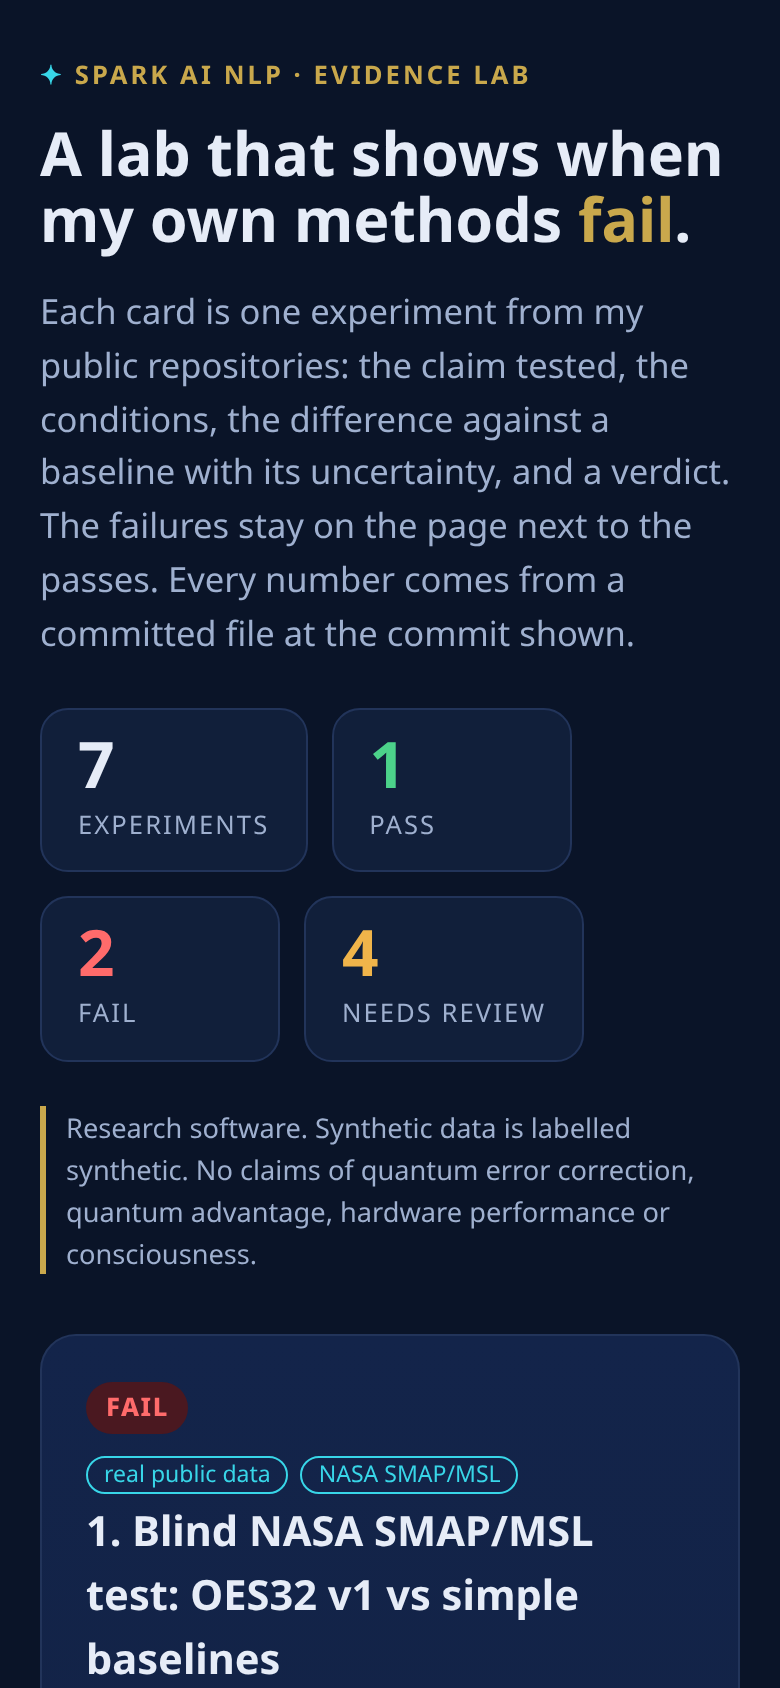
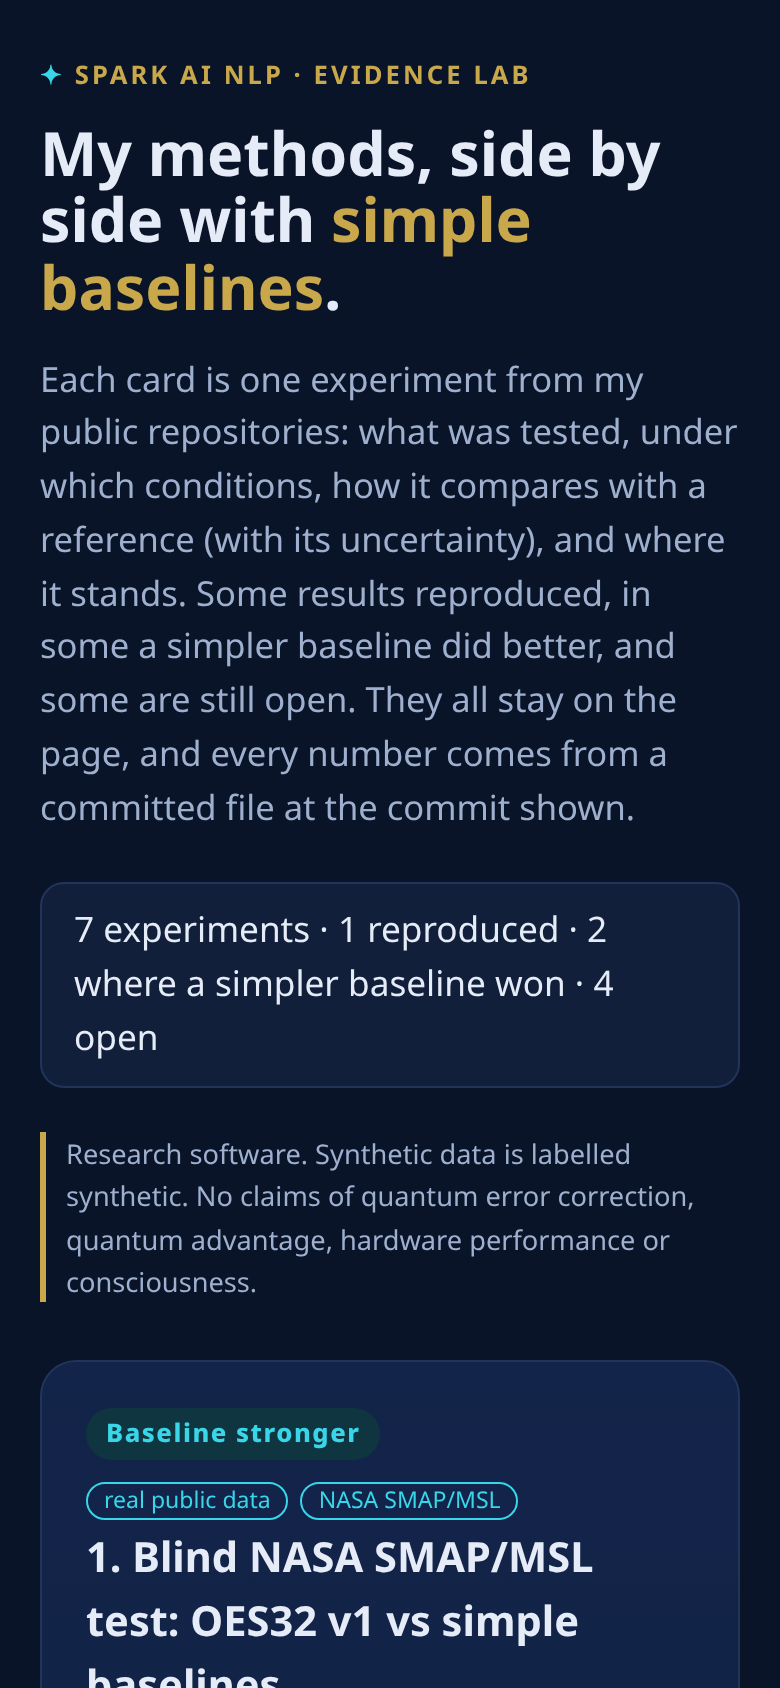
Calmer framing: Reproduced / Baseline stronger / Open question / Exploratory labels, What I learned and Next step lines; results unchanged

diff --git a/site/app.js b/site/app.js
@@ -1,7 +1,7 @@
 "use strict";
 const L = window.LAB, GH = "https://github.com/sparkainlp-x/", $ = (s, r = document) => r.querySelector(s);
-const C = { gold:"#c9a84c", cyan:"#38d6e8", red:"#ff6b6b", green:"#4cd28a", amber:"#f0b44a", mut:"#9fb0cf", line:"#22345a", txt:"#e6ecf7" };
-const VL = { PASS:"PASS", FAIL:"FAIL", REVIEW:"NEEDS REVIEW" };
+const C = { gold:"#c9a84c", cyan:"#38d6e8", red:"#b7c3da", green:"#4cd28a", amber:"#f0b44a", mut:"#9fb0cf", line:"#22345a", txt:"#e6ecf7" };
+const VL = { REPRODUCED:"Reproduced", BASELINE:"Baseline stronger", OPEN:"Open question", EXPLORATORY:"Exploratory" };
 const esc = s => String(s).replace(/[&<>]/g, c => ({ "&":"&amp;", "<":"&lt;", ">":"&gt;" }[c]));
 function rng(seed) { let a = seed >>> 0; return () => { a |= 0; a = a + 0x6D2B79F5 | 0; let t = Math.imul(a ^ a >>> 15, 1 | a); t = t + Math.imul(t ^ t >>> 7, 61 | t) ^ t; return ((t ^ t >>> 14) >>> 0) / 4294967296; }; }
 function gauss(r) { let u = 0, v = 0; while (!u) u = r(); v = r(); return Math.sqrt(-2 * Math.log(u)) * Math.cos(2 * Math.PI * v); }
@@ -34,49 +34,49 @@ const legend = items => `<div class="ctl">${items.map(([c, t]) => `<span><b styl
 
 // ---------- experiments ----------
 const EXP = [
- { id:"smap", verdict:"FAIL", tags:["real public data","NASA SMAP/MSL"], title:"Blind NASA SMAP/MSL test: OES32 v1 vs simple baselines",
+ { id:"smap", learned:'On this data the plain max|x| over the window did at least as well as OES32; the extra weighting showed no measurable gain.', verdict:"BASELINE", tags:["real public data","NASA SMAP/MSL"], title:"Blind NASA SMAP/MSL test: OES32 v1 vs simple baselines",
    claim:"OES32 detects real spacecraft telemetry anomalies better than simple baselines (preregistered success criterion).",
    cond:"Hundman et al. 2018 SMAP (54 channels, 68 events) and MSL (27 channels, 36 events); protocol locked and pushed before test scoring; train-only thresholds at a 1% false-positive target; pooled event-level F1 with 95% bootstrap CIs.",
    diff:"SMAP: OES32 0.379 vs max|x| 0.475. MSL: OES32 0.435 vs max|x| 0.500 and CUSUM 0.514. Differences vs the better baselines are not significant; OES32 was significantly better only than EWMA on SMAP.",
    need:"An external timestamp for the protocol lock (it is self-timestamped ~10 minutes before the results merged) and an independent rerun.",
    repo:"oes-resilience", sha:"e3e03d5cc6b54e9d9818fd83d7a1e041f6800224", path:"reports/smap_msl_results/smap_msl_summary.csv", doi:"10.5281/zenodo.23128059",
    rerun:`git clone https://github.com/sparkainlp-x/oes-resilience && cd oes-resilience\ngit checkout e3e03d5\npip install -e .\npython scripts/fetch_smap_msl.py   # downloads public data, verifies SHA-256\npytest tests/test_smap_msl.py`, render: renderSmap },
- { id:"v2", verdict:"FAIL", tags:["real public data","locked protocol"], title:"OES-32-v2: a second attempt, also failed",
+ { id:"v2", learned:'A wider validation search did not transfer to the real test split; tuning on synthetic injections was not enough.', verdict:"BASELINE", tags:["real public data","locked protocol"], title:"OES-32-v2: a second attempt, also failed",
    claim:"A validation-selected v2 detector improves event F1 over frozen v1 by at least +0.05 on both SMAP and MSL.",
    cond:"4,223 validation-only trials on synthetic injections, frozen config, test split run exactly once (protocol 8b474b6, test lock 5477ffb, run 7b46a3b).",
    diff:"v2 − v1 event F1: −0.166 on SMAP (0.213 vs 0.379), −0.001 on MSL (0.434 vs 0.435). Required: +0.05 on each. Runtime 2.27× v1 against a 2× limit.",
    need:"Nothing to rescue here: the criterion was predeclared and missed. Kept as a documented negative result.",
    repo:"oes-resilience", sha:"79edb72c861fa487ec63e14f9d10d0a55525d513", path:"oes32-v2/reports/OES32_V2_REPORT.md", doi:"10.5281/zenodo.23071166",
    rerun:`git clone https://github.com/sparkainlp-x/oes-resilience && cd oes-resilience\ngit checkout 79edb72\ncat oes32-v2/reports/OES32_V2_REPORT.md   # protocol, trial log, frozen config, results`, render: renderV2 },
- { id:"qbench", verdict:"REVIEW", tags:["SIMULATOR ONLY","synthetic noise"], title:"qbench: does heavier transpiler optimisation help? It depends how you block.",
+ { id:"qbench", learned:'The gain is concentrated in one circuit family, so how the data is blocked decides whether it looks significant.', verdict:"OPEN", tags:["SIMULATOR ONLY","synthetic noise"], title:"qbench: does heavier transpiler optimisation help? It depends how you block.",
    claim:"Qiskit transpiler optimisation level 3 gives higher Hellinger fidelity than level 1 under a synthetic noise model.",
    cond:"Qiskit Aer simulator only; GHZ, Bernstein-Vazirani and QFT at widths 3-5; 4 seed batches; 2,000 shots; 108 runs; plan SHA-256 self-recorded before the first run; paired block bootstrap.",
    diff:"+0.0187 [+0.0053, +0.0324] with the preregistered 12 blocks. Grouping by circuit family alone: [+0.0000, +0.0538], not significant. Nearly all of the gain is from QFT (+0.0538).",
    need:"An externally timestamped plan (Zenodo/OSF), real-hardware runs with calibration snapshots, and more families so a family-level interval is meaningful.",
    repo:"oes-resilience", sha:"0e1165610e2ddb6445fec507b95d8b7a7f8b2979", branch:"qbench-evidence-layer (PR #5, unmerged)", path:"examples/qbench_sample/qbench_report.md", doi:null,
    rerun:`git clone https://github.com/sparkainlp-x/oes-resilience && cd oes-resilience\ngit checkout 0e11656   # branch qbench-evidence-layer\npip install -e '.[quantum]'\npytest -q tests -k qbench\n# outputs: examples/qbench_sample/`, render: renderQbench },
- { id:"residual", verdict:"PASS", tags:["live in your browser","synthetic stream"], title:"OES-32 residual, ported to JavaScript and replayed live",
+ { id:"residual", learned:'The residual is simple enough to port exactly; on a slow drift, max-abs reacts later than EWMA or CUSUM.', verdict:"REPRODUCED", tags:["live in your browser","synthetic stream"], title:"OES-32 residual, ported to JavaScript and replayed live",
    claim:"The in-browser JS port computes exactly the normative OES-32 residual: R = max|y−x| over 32 values, FAIL iff R > tolerance (strict).",
    cond:"Contract vectors generated by the Python reference (oes32-residual 136f258) and checked bit-exact by node:test in CI, plus invalid-input rejection.",
    diff:"45 of 45 valid vectors identical (component residuals, aggregate and status); all invalid inputs rejected. The replay below is a synthetic illustration, not a benchmark.",
    need:"The replay's EWMA/CUSUM settings are illustrative and uncalibrated; the slow-drift weakness is shown, not measured.",
    repo:"oes32-residual", sha:"136f2584c8e81d31edbe418652eed1616cd498cd", path:"residual_definition.md", doi:"10.5281/zenodo.22985520",
    rerun:`git clone https://github.com/sparkainlp-x/spark-evidence-lab && cd spark-evidence-lab\ngit clone https://github.com/sparkainlp-x/oes32-residual /tmp/oes32-residual\npython3 tools/gen_vectors.py /tmp/oes32-residual > tests/vectors.json\nnode --test tests/`, render: renderResidual },
- { id:"oes512", verdict:"REVIEW", tags:["SYNTHETIC","not hardware"], title:"OES-512: 512-channel synthetic stream, filtered and summarised",
+ { id:"oes512", learned:'The summaries react to shared structure, and the notch keeps mains hum from looking like coherence. That is behaviour, not evidence.', verdict:"EXPLORATORY", tags:["SYNTHETIC","not hardware"], title:"OES-512: 512-channel synthetic stream, filtered and summarised",
    claim:"The coherence / instability / drift summaries respond to injected structure in a synthetic 512-channel stream.",
    cond:"Synthetic 250 Hz stream generated in your browser; 50 Hz notch + 0.5-45 Hz band-pass (biquads, a JS approximation of the repo's SciPy SOS filters); metric definitions mirror main.py: coherence = mean |Pearson r| over every 16th channel, instability = std of channel variances, drift = norm of mean-profile shift from the first window.",
    diff:"No baseline comparison exists yet. The metrics are plain statistics of synthetic data, not measurements of any system.",
    need:"A predeclared detection task with ground truth and a baseline (for example max|x| per block) before any claim.",
    repo:"oes512-telemetry-engine", sha:"95d99a16c61ef700a58f668e35e61ad051e4d8cc", path:"main.py", doi:"10.5281/zenodo.23307953",
    rerun:`git clone https://github.com/sparkainlp-x/oes512-telemetry-engine && cd oes512-telemetry-engine\npip install -r requirements.txt -r requirements-dev.txt\npytest -q && python main.py`, render: renderOes512 },
- { id:"thz", verdict:"REVIEW", tags:["SYNTHETIC","protocol-locked"], title:"Digital to Wave Part II: THz channel validity check",
+ { id:"thz", learned:'Writing the equations as code made the depth and intensity limits concrete; the simulator agrees with the closed form.', verdict:"OPEN", tags:["SYNTHETIC","protocol-locked"], title:"Digital to Wave Part II: THz channel validity check",
    claim:"The THz human-wave-interface equations of the Part II preprint describe an engineering-plausible channel.",
    cond:"Equation inventory by PDF page, dimension checks with assumptions that favour the paper, and a seeded synthetic channel benchmark (master seed 20261013, run from lock commit 6ff37d6). 12,000 frames per cell.",
    diff:"One equation (p. 29) fails the dimension check. Required surface intensity is 10^10.8 × the ICNIRP long-exposure skin limit. Even the oracle receiver collapses between 30 and 100 µm depth (9,749 → 892 → 0 of 12,000). Simulator vs closed form: 73 of 75 cells inside the 95% interval.",
    need:"Review by the source author or a THz/biophysics specialist; the source author has not reviewed it. Not a safety assessment.",
    repo:"digital-to-wave-2-thz-validity", sha:"c8721fa8974d92db66f696e6006460b84e0f70c2", path:"README.md", doi:null,
    rerun:`git clone https://github.com/sparkainlp-x/digital-to-wave-2-thz-validity && cd digital-to-wave-2-thz-validity\npip install -e '.[test]'\nsha256sum -c MODULES.sha256\ntools/reproduce_all.sh   # ~20 s, regenerates artifacts/`, render: renderThz },
- { id:"qec", verdict:"REVIEW", tags:["CLASSICAL TOY SIMULATION","Stim + PyMatching"], title:"Surface-code memory toy: failures vs code distance",
+ { id:"qec", learned:'The toy behaves as textbook theory expects, and low-noise points need many more shots to say anything precise.', verdict:"OPEN", tags:["CLASSICAL TOY SIMULATION","Stim + PyMatching"], title:"Surface-code memory toy: failures vs code distance",
    claim:"In this idealised circuit-noise model, the simulated per-round failure estimate of the rotated surface code falls as distance grows.",
    cond:"Stim 1.16.0 + PyMatching 2.4.0 on a classical CPU; d = 3, 5, 7; R = 4d rounds; 20,000 shots per condition; seed 1823; held-out profile with two extra seeds.",
    diff:"Holds at every tested noise point; the d3→5 ratio shrinks from 9.2 to 1.17 as noise rises. No crossing reached, so no threshold is estimated. At the center point d=3 fails more often than the unencoded row.",
@@ -182,14 +182,15 @@ function renderQec(el) { const q = L.qec;
     + `<div class="ctl">Surface-code ratio q(d=3) / q(d=5) with 95% bootstrap CI per (gate, readout) noise point; failures out of 20,000 at d = 3/5/7. Classical toy simulation.</div>`; }
 
 // ---------- page ----------
-const counts = { PASS: 0, FAIL: 0, REVIEW: 0 }; EXP.forEach(e => counts[e.verdict]++);
-$("#score").innerHTML = `<div><b>${EXP.length}</b><span>experiments</span></div><div><b style="color:${C.green}">${counts.PASS}</b><span>pass</span></div><div><b style="color:${C.red}">${counts.FAIL}</b><span>fail</span></div><div><b style="color:${C.amber}">${counts.REVIEW}</b><span>needs review</span></div>`;
+const counts = { REPRODUCED: 0, BASELINE: 0, OPEN: 0, EXPLORATORY: 0 }; EXP.forEach(e => counts[e.verdict]++);
+$("#score").innerHTML = `<p class="scoreline">${EXP.length} experiments · ${counts.REPRODUCED} reproduced · ${counts.BASELINE} where a simpler baseline won · ${counts.OPEN + counts.EXPLORATORY} open</p>`;
 const main = $("#cards");
 EXP.forEach((e, i) => { const el = document.createElement("article"); el.className = "card"; el.id = e.id;
   el.innerHTML = `<span class="v ${e.verdict}">${VL[e.verdict]}</span><div>${e.tags.map(t => `<span class="tag">${esc(t)}</span>`).join("")}</div><h2>${i + 1}. ${esc(e.title)}</h2>
-  <dl class="facts"><dt>Claim tested</dt><dd>${esc(e.claim)}</dd><dt>Conditions</dt><dd>${esc(e.cond)}</dd><dt>Difference vs baseline</dt><dd>${esc(e.diff)}</dd><dt>Verdict</dt><dd><b class="${e.verdict}">${VL[e.verdict]}</b></dd></dl>
+  <dl class="facts"><dt>Claim tested</dt><dd>${esc(e.claim)}</dd><dt>Conditions</dt><dd>${esc(e.cond)}</dd><dt>Difference vs baseline</dt><dd>${esc(e.diff)}</dd><dt>Where it stands</dt><dd><b class="${e.verdict}">${VL[e.verdict]}</b></dd></dl>
   <div class="ctls"></div><div class="viz"></div>
-  <p class="need">Still needed to verify: ${esc(e.need)}</p>
+  <p class="learn">What I learned: ${esc(e.learned)}</p>
+  <p class="need">Next step: ${esc(e.need)}</p>
   <p class="links">Code <a href="${GH}${e.repo}/tree/${e.sha}">${e.repo}</a>${e.branch ? " · " + esc(e.branch) : ""} · commit <a href="${GH}${e.repo}/commit/${e.sha}"><code>${e.sha.slice(0, 7)}</code></a> · source <a href="${GH}${e.repo}/blob/${e.sha}/${e.path}"><code>${esc(e.path)}</code></a>${e.doi ? ` · DOI <a href="https://doi.org/${e.doi}">${e.doi}</a>` : " · no DOI yet"}</p>
   <details><summary>How to rerun from a clean checkout</summary><pre>${esc(e.rerun)}</pre></details>`;
   main.appendChild(el); try { e.render(el); } catch (err) { $(".viz", el).textContent = "Visualisation failed: " + err.message; } });

diff --git a/site/style.css b/site/style.css
@@ -9,7 +9,7 @@ a{color:var(--cyan)}.gold{color:var(--gold)}
 main{max-width:1100px;margin:auto;padding:0 20px;display:grid;gap:22px}
 .card{background:linear-gradient(180deg,#13244a,var(--panel));border:1px solid var(--line);border-radius:18px;padding:22px}
 .card h2{margin:.1em 0 .2em;font-size:1.3rem}.tag{font-size:.72rem;color:var(--cyan);border:1px solid var(--cyan);border-radius:99px;padding:1px 8px;margin-right:6px}
-.v{font-size:.8rem;font-weight:800;letter-spacing:.06em;padding:3px 10px;border-radius:99px;float:right}.v.PASS{background:#123f2b;color:var(--green)}.v.FAIL{background:#4a1820;color:var(--red)}.v.REVIEW{background:#4a3712;color:var(--amber)}
+.v{font-size:.8rem;font-weight:800;letter-spacing:.06em;padding:3px 10px;border-radius:99px;float:right}.v.REPRODUCED{background:#3a3015;color:var(--gold)}.v.BASELINE{background:#0f3540;color:var(--cyan)}.v.OPEN,.v.EXPLORATORY{background:#26314a;color:#b7c3da}
 footer .v{float:none}
 dl.facts{display:grid;grid-template-columns:150px 1fr;gap:6px 14px;margin:14px 0}dl.facts dt{color:var(--gold);font-weight:600;font-size:.86rem}dl.facts dd{margin:0}
 .viz{background:#0b1730;border:1px solid var(--line);border-radius:12px;padding:12px;margin:12px 0}.viz svg,.viz canvas{width:100%;height:auto;display:block}
@@ -17,7 +17,7 @@ dl.facts{display:grid;grid-template-columns:150px 1fr;gap:6px 14px;margin:14px 0
 .ctl input[type=range]{accent-color:var(--gold);width:130px}button.t{background:#0b1730;color:var(--txt);border:1px solid var(--line);border-radius:8px;padding:6px 12px;cursor:pointer;font:inherit;font-size:.85rem}
 button.t.on{border-color:var(--gold);color:var(--gold)}
 details{margin-top:8px}summary{cursor:pointer;color:var(--cyan)}pre{background:#060e1f;border:1px solid var(--line);border-radius:10px;padding:12px;overflow:auto;font-size:.8rem}
-.links{font-size:.85rem;color:var(--mut)}.links code{color:var(--txt)}.need{font-size:.88rem;color:var(--amber)}
+.links{font-size:.85rem;color:var(--mut)}.links code{color:var(--txt)}.need{font-size:.88rem;color:var(--mut)}.learn{font-size:.92rem;color:var(--txt);border-left:3px solid var(--gold);padding-left:10px}.scoreline{font-size:1.1rem;color:var(--txt);background:var(--panel);border:1px solid var(--line);border-radius:12px;padding:10px 16px;display:inline-block;margin:0}
 .about,footer{max-width:1100px;margin:30px auto;padding:0 20px;color:var(--mut)}footer{padding-bottom:40px;font-size:.85rem}
 @media(max-width:640px){dl.facts{grid-template-columns:1fr}.v{float:none;display:inline-block;margin-bottom:6px}.hero{padding-top:28px}}
 .card canvas{width:100%;height:auto;border-radius:8px;margin-top:6px}

diff --git a/site/index.html b/site/index.html
@@ -7,8 +7,8 @@
 </head><body>
 <header class="hero">
   <div class="brand"><span class="spark">✦</span> Spark AI NLP · Evidence Lab</div>
-  <h1>A lab that shows when my own methods <span class="gold">fail</span>.</h1>
-  <p class="lede">Each card is one experiment from my public repositories: the claim tested, the conditions, the difference against a baseline with its uncertainty, and a verdict. The failures stay on the page next to the passes. Every number comes from a committed file at the commit shown.</p>
+  <h1>My methods, side by side with <span class="gold">simple baselines</span>.</h1>
+  <p class="lede">Each card is one experiment from my public repositories: what was tested, under which conditions, how it compares with a reference (with its uncertainty), and where it stands. Some results reproduced, in some a simpler baseline did better, and some are still open. They all stay on the page, and every number comes from a committed file at the commit shown.</p>
   <div class="score" id="score"></div>
   <p class="scope">Research software. Synthetic data is labelled synthetic. No claims of quantum error correction, quantum advantage, hardware performance or consciousness.</p>
 </header>
@@ -18,6 +18,6 @@
   <p><strong>Jean-François Brisson</strong> · Fredericton, New Brunswick, Canada · <a href="https://orcid.org/0009-0000-9778-5374">ORCID 0009-0000-9778-5374</a> · <a href="https://sparkainlpx.xyz">Spark AI NLP</a> · <a href="https://github.com/sparkainlp-x">github.com/sparkainlp-x</a></p>
   <p>Static page, no backend, no tracking; it works offline once loaded. The live replays run in your browser on synthetic data. Built with Grok Bot. Source: <a href="https://github.com/sparkainlp-x/spark-evidence-lab">sparkainlp-x/spark-evidence-lab</a> (AGPL-3.0-only).</p>
 </section>
-<footer>Verdicts: <b class="v PASS">PASS</b> criterion met · <b class="v FAIL">FAIL</b> criterion not met · <b class="v REVIEW">NEEDS REVIEW</b> no criterion yet, simulation only or fragile.</footer>
+<footer>Labels: <b class="v REPRODUCED">Reproduced</b> result or criterion confirmed · <b class="v BASELINE">Baseline stronger</b> a simpler reference scored higher or the predeclared criterion was not met · <b class="v OPEN">Open question</b> simulation only or not yet independently checked · <b class="v EXPLORATORY">Exploratory</b> synthetic demo with no baseline yet.</footer>
 <script src="data.js"></script><script src="residual.js"></script><script src="app.js"></script>
 </body></html>

diff --git a/README.md b/README.md
@@ -1,6 +1,6 @@
 # Spark Evidence Lab
 
-**A lab that shows when my own methods fail.** Live: **https://sparkainlp-x.github.io/spark-evidence-lab/**
+**My methods, side by side with simple baselines, including where the baseline wins.** Live: **https://sparkainlp-x.github.io/spark-evidence-lab/**
 
 [![ci](https://github.com/sparkainlp-x/spark-evidence-lab/actions/workflows/ci.yml/badge.svg)](https://github.com/sparkainlp-x/spark-evidence-lab/actions/workflows/ci.yml)
 [![pages](https://github.com/sparkainlp-x/spark-evidence-lab/actions/workflows/pages.yml/badge.svg)](https://github.com/sparkainlp-x/spark-evidence-lab/actions/workflows/pages.yml)
@@ -8,17 +8,17 @@
 
 ![Spark Evidence Lab](screenshot.png)
 
-Each card is one experiment from my public repositories. It shows the **claim tested**, the **conditions**, the **difference against a baseline with its uncertainty**, a **verdict** (PASS / FAIL / NEEDS REVIEW), links to the code at an exact commit, the DOI where one exists, what is still needed to verify it, and the commands to rerun it from a clean checkout. Every number is copied from a committed file in the source repository; nothing is estimated here.
+Each card is one experiment from my public repositories. It shows the **claim tested**, the **conditions**, the **difference against a baseline with its uncertainty**, a **status** (Reproduced / Baseline stronger / Open question / Exploratory), a short *What I learned* line, links to the code at an exact commit, the DOI where one exists, the next step, and the commands to rerun it from a clean checkout. Every number is copied from a committed file in the source repository; nothing is estimated here.
 
 | # | Experiment | Source (commit) | Verdict |
 |---|---|---|---|
-| 1 | Blind NASA SMAP/MSL test, OES32 v1 vs baselines | [oes-resilience `e3e03d5`](https://github.com/sparkainlp-x/oes-resilience/blob/e3e03d5cc6b54e9d9818fd83d7a1e041f6800224/reports/smap_msl_results/smap_msl_summary.csv) | FAIL |
-| 2 | OES-32-v2 locked re-attempt | [oes-resilience `79edb72`](https://github.com/sparkainlp-x/oes-resilience/blob/79edb72c861fa487ec63e14f9d10d0a55525d513/oes32-v2/reports/OES32_V2_REPORT.md) | FAIL |
-| 3 | qbench transpiler comparison (simulator only) | [oes-resilience PR #5 `0e11656`](https://github.com/sparkainlp-x/oes-resilience/blob/0e1165610e2ddb6445fec507b95d8b7a7f8b2979/examples/qbench_sample/qbench_report.md) | NEEDS REVIEW |
-| 4 | OES-32 residual JS port + live replay | [oes32-residual `136f258`](https://github.com/sparkainlp-x/oes32-residual/blob/136f2584c8e81d31edbe418652eed1616cd498cd/residual_definition.md) | PASS |
-| 5 | OES-512 synthetic 512-channel stream | [oes512-telemetry-engine `95d99a1`](https://github.com/sparkainlp-x/oes512-telemetry-engine/blob/95d99a16c61ef700a58f668e35e61ad051e4d8cc/main.py) | NEEDS REVIEW |
-| 6 | Digital to Wave Part II THz validity check | [digital-to-wave-2-thz-validity `c8721fa`](https://github.com/sparkainlp-x/digital-to-wave-2-thz-validity/blob/c8721fa8974d92db66f696e6006460b84e0f70c2/README.md) | NEEDS REVIEW |
-| 7 | Surface-code memory toy (Stim + PyMatching) | [qec-scaling-bench `0125bdb`](https://github.com/sparkainlp-x/qec-scaling-bench/blob/0125bdb475cbbc7886f075ef2dd8055d97d5f7ad/results/scaling_sweep_seed_1823.json) | NEEDS REVIEW |
+| 1 | Blind NASA SMAP/MSL test, OES32 v1 vs baselines | [oes-resilience `e3e03d5`](https://github.com/sparkainlp-x/oes-resilience/blob/e3e03d5cc6b54e9d9818fd83d7a1e041f6800224/reports/smap_msl_results/smap_msl_summary.csv) | Baseline stronger |
+| 2 | OES-32-v2 locked re-attempt | [oes-resilience `79edb72`](https://github.com/sparkainlp-x/oes-resilience/blob/79edb72c861fa487ec63e14f9d10d0a55525d513/oes32-v2/reports/OES32_V2_REPORT.md) | Baseline stronger |
+| 3 | qbench transpiler comparison (simulator only) | [oes-resilience PR #5 `0e11656`](https://github.com/sparkainlp-x/oes-resilience/blob/0e1165610e2ddb6445fec507b95d8b7a7f8b2979/examples/qbench_sample/qbench_report.md) | Open question |
+| 4 | OES-32 residual JS port + live replay | [oes32-residual `136f258`](https://github.com/sparkainlp-x/oes32-residual/blob/136f2584c8e81d31edbe418652eed1616cd498cd/residual_definition.md) | Reproduced |
+| 5 | OES-512 synthetic 512-channel stream | [oes512-telemetry-engine `95d99a1`](https://github.com/sparkainlp-x/oes512-telemetry-engine/blob/95d99a16c61ef700a58f668e35e61ad051e4d8cc/main.py) | Exploratory |
+| 6 | Digital to Wave Part II THz validity check | [digital-to-wave-2-thz-validity `c8721fa`](https://github.com/sparkainlp-x/digital-to-wave-2-thz-validity/blob/c8721fa8974d92db66f696e6006460b84e0f70c2/README.md) | Open question |
+| 7 | Surface-code memory toy (Stim + PyMatching) | [qec-scaling-bench `0125bdb`](https://github.com/sparkainlp-x/qec-scaling-bench/blob/0125bdb475cbbc7886f075ef2dd8055d97d5f7ad/results/scaling_sweep_seed_1823.json) | Open question |
 
 ## Scope
 
